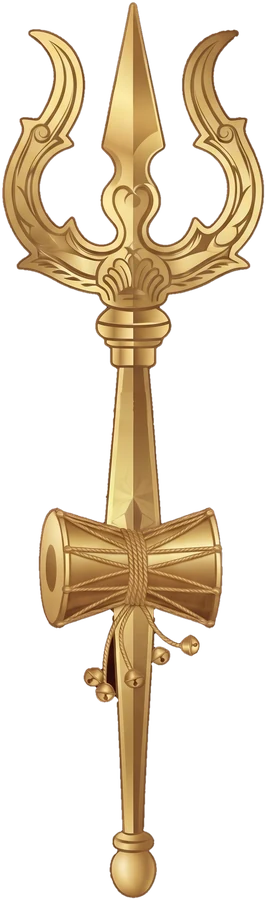
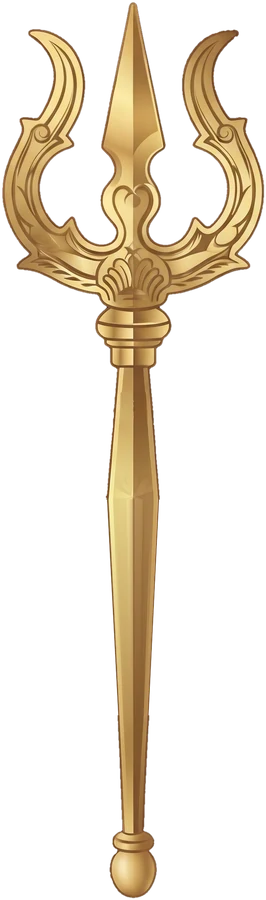
Jyotirlinga Compass: separate damaru hub, swinging trishul, damaru sound
- Damaru cut out of the trishul artwork as its own picture (drum, rope knot,
  three cords, five bells). It sits upright at the dial's centre while the
  trishul turns beneath it. The shaft it covered was rebuilt from the clean
  metal above and below, stretched to the shaft's taper row by row.
- Trishul now swings to each new direction (9% of the remaining angle per
  frame) instead of jumping.
- Damaru sound synthesised with Web Audio, no recording: two skins at 300
  and 345 Hz struck in turn, a shell mode at 1.59x, a bead click, small
  bells. Plays while the trishul has more than 12 degrees to turn, roll
  length scales with the swing, then rests 0.9 s. The damaru twists while
  it plays. Tap the damaru to hear it; sound switch beside the readouts.
- Respects prefers-reduced-motion. Credits updated.

Claude-Session: https://claude.ai/code/session_01Hxbxsmdo45GaN6PaciHAM9

Changed region(s): [[0.1203, 0.56, 0.8421, 0.8089]]

diff --git a/demos/jyotirlinga-compass/index.html b/demos/jyotirlinga-compass/index.html
@@ -87,6 +87,8 @@
   .chip{padding:6px 12px;border-radius:999px;font-size:12.5px;color:var(--text);
     background:rgba(5,6,10,.7);border:1px solid rgba(155,107,255,.4)}
   .chip b{color:var(--blue);font-weight:500}
+  button.chip{font:inherit;font-size:12.5px;cursor:pointer}
+  button.chip[aria-pressed="false"] b{color:var(--muted)}
   .flat{margin:14px 0 0;padding:10px 12px;border-radius:12px;font-size:12.5px;line-height:1.5;
     border:1px solid rgba(76,201,255,.4);background:rgba(76,201,255,.06);color:#cfeeff}
 
@@ -159,10 +161,20 @@
              Measured on the 635x2149 source: shaft axis x=317.5, blade tip y=6,
              knob end y=2143, so the midpoint is y=1074.5. Scale 0.08202 makes it
              176 units long: tip 88 units above the centre, knob the same below.
+             The damaru that was tied to the shaft is now a separate picture (below);
+             the shaft behind it was rebuilt from the clean metal above and below.
              Drawn pointing straight up; rotate() does the aiming, to (bearing - heading). -->
         <g id="needle">
           <image href="img/trishul.webp" x="123.96" y="61.87" width="52.08" height="176.26"
                  preserveAspectRatio="none" filter="url(#f-glow)" style="pointer-events:none"/>
+        </g>
+        <!-- The damaru: its own picture, cut from the same artwork. It stays upright at
+             the dial's centre while the trishul turns beneath it, like a hub. The middle
+             of the drum (source 223.5,167.0 in the 448x504 cut-out) sits on (150,150),
+             at the same scale as the trishul. Tap it to hear it. -->
+        <g id="damaru" role="button" tabindex="0" aria-label="Play the damaru" style="cursor:pointer">
+          <image href="img/damaru.webp" x="131.67" y="136.30" width="36.75" height="41.34"
+                 preserveAspectRatio="none" filter="url(#f-glow)"/>
         </g>
       </svg>
     </div>
@@ -170,8 +182,10 @@
     <div class="readout">
       <span class="chip">Bearing <b id="r-bear">—</b></span>
       <span class="chip">Compass <b id="r-head">—</b></span>
+      <button type="button" class="chip snd" id="b-snd" aria-pressed="true">Damaru sound <b>On</b></button>
     </div>
     <p class="flat" id="flatnote" hidden>No compass on this device, so the dial is held with north upwards and the arrow shows the bearing from true north. On a phone the arrow turns as you turn.</p>
+    <p class="note"><b>The damaru (डमरू)</b> sounds while the trishul swings to a new direction, and you can tap it to hear it. The sound is made by the page itself, not a recording: two drum skins tuned a little apart, struck in turn by the beads on its cords, with the small bells jingling. Switch it off with the button above.</p>
     <p class="note"><b>दस दिशाएँ, the ten directions.</b> The dial shows eight: the four main ones and the four corners (कोण): ईशान, आग्नेय, नैऋत्य and वायव्य. Tradition counts two more, ऊर्ध्व (upward) and अधो (downward), which a flat compass cannot show.</p>
     <p class="note"><b>If the arrow wanders:</b> wave the phone in a figure 8 a few times to calibrate it. Indoors, in a lift, in a car, or near a fridge, speakers, a laptop or steel furniture, the magnetic reading drifts and can be wrong by a long way. Step outside, away from metal, for a steadier reading.</p>
   </div>
@@ -198,6 +212,8 @@
       <tr><td>Mamleshwar as a second linga of the kshetra</td><td>Editorial reference</td><td><a href="https://www.gajananmaharajsanstan.in/blog/mamleshwar-vs-omkareshwar-jyotirlinga">Gajanan Maharaj Sansthan</a></td><td>26 Nov 2026</td><td>No coordinate used; no sourced point for Mamleshwar yet</td></tr>
       <tr><td>Isometric temple pictures with Hindi and English names (all 12)</td><td>Generated by Mohit with Google Gemini; carries Google's invisible SynthID mark</td><td>—</td><td>27 Nov 2026</td><td>Background removed and Gemini's visible sparkle cropped out. Bhimashankar label corrected from भीमार्शंकर to भीमाशंकर. Check Gemini's current terms allow this use before go-live.</td></tr>
       <tr><td>Trishul and damaru needle</td><td>Generated by Mohit with Google Gemini; carries Google's invisible SynthID mark</td><td>—</td><td>27 Nov 2026</td><td>Background and compass rose removed; the "N" on the shaft painted out, since the needle points to a shrine, not north. Same terms check as above.</td></tr>
+      <tr><td>Damaru picture</td><td>Generated by Mohit with Google Gemini; carries Google's invisible SynthID mark</td><td>—</td><td>27 Nov 2026</td><td>Cut out of the trishul artwork as its own piece; cords and bells kept. Same terms check as above.</td></tr>
+      <tr><td>Damaru sound</td><td>Original, synthesised in the browser (Web Audio API)</td><td>—</td><td>27 Nov 2026</td><td>None. No recording used.</td></tr>
       <tr><td>Compass dial</td><td>Original, drawn in code for this page</td><td>—</td><td>27 Nov 2026</td><td>None</td></tr>
       <tr><td>Geist, Tiro Devanagari Hindi</td><td>SIL Open Font License 1.1</td><td><a href="https://fonts.google.com/">Google Fonts</a></td><td>26 Nov 2026</td><td>None</td></tr>
     </table>
@@ -214,7 +230,7 @@
    Jyotirlinga Compass — Level A (web compass, no AR)
    One file, no build step, no libraries.
    ===================================================================== */
-const BUILD = 'Jyotirlinga Compass · Level A · 27 Nov 2026 · r2';
+const BUILD = 'Jyotirlinga Compass · Level A · 27 Nov 2026 · r3';
 const $ = id => document.getElementById(id);
 $('stamp').textContent = BUILD;
 
@@ -424,18 +440,169 @@ function draw(){
   if (St.heading == null){
     // No compass: hold the dial north-up and point the needle at the bearing
     $('rose').setAttribute('transform', 'rotate(0 150 150)');
-    $('needle').setAttribute('transform', `rotate(${bear.toFixed(1)} 150 150)`);
+    setNeedle(bear);
     $('r-head').textContent = 'not available';
     $('flatnote').hidden = false;
     placeLabels(0);
   } else {
     $('rose').setAttribute('transform', `rotate(${(-St.heading).toFixed(1)} 150 150)`);
-    $('needle').setAttribute('transform', `rotate(${norm(bear - St.heading).toFixed(1)} 150 150)`);
+    setNeedle(bear - St.heading);
     $('r-head').textContent = `${Math.round(St.heading)}° ${compassWord(St.heading)}`;
     $('flatnote').hidden = true;
     placeLabels(St.heading);
   }
 }
+
+
+/* ---------------------------------------------------------------------
+   PART 6b — The swing, and the damaru
+   The trishul does not jump to a new angle; it swings there. Each screen
+   refresh (about 60 a second) it turns 9% of the way that is left.
+   Example: 90 degrees to go -> turns 8.1, then 7.4, then 6.7 ... and has
+   settled in under a second, slowing as it arrives, like a real needle.
+   While it still has more than 12 degrees to go, the damaru plays.
+   --------------------------------------------------------------------- */
+const REDUCE = matchMedia('(prefers-reduced-motion: reduce)').matches;
+const Needle = { shown: 0, target: 0 };   // starts pointing up, so the first fix swings into place
+let needleRaf = 0;
+function setNeedle(a){
+  Needle.target = norm(a);
+  if (REDUCE){ Needle.shown = Needle.target; paintNeedle(); return; }
+  if (!needleRaf) needleRaf = requestAnimationFrame(stepNeedle);
+}
+function stepNeedle(){
+  needleRaf = 0;
+  // shortest way round: from 350 to 10 is +20, not -340
+  const diff = ((Needle.target - Needle.shown + 540) % 360) - 180;
+  if (Math.abs(diff) > 12) Damaru.swing(Math.abs(diff));
+  Needle.shown = norm(Needle.shown + diff * 0.09);
+  paintNeedle();
+  if (Math.abs(diff) > 0.15) needleRaf = requestAnimationFrame(stepNeedle);
+}
+function paintNeedle(){
+  $('needle').setAttribute('transform', `rotate(${Needle.shown.toFixed(2)} 150 150)`);
+}
+
+/* The damaru sound, made in the browser with the Web Audio API. No recording.
+   How a damaru works: twisting the wrist swings two knotted cords, and their
+   beads strike the two skins in turn: "dug-dug-dug". So each roll here is a
+   run of hits that alternate between two heads tuned a little apart.
+   One hit = three short sounds layered together:
+     1. the skin: a sine wave that starts a little sharp and settles, as a
+        struck membrane does (300 Hz head and 345 Hz head);
+     2. the shell: a second, higher mode (1.59 x the skin) that dies quickly;
+     3. the bead: a tiny burst of noise, filtered to a click.
+   Browsers only allow sound after a tap, so the audio starts on your first tap. */
+const Damaru = {
+  on: true, ctx: null, out: null, noise: null, busyUntil: 0, restUntil: 0,
+  unlock(){
+    if (!this.ctx){
+      const AC = window.AudioContext || window.webkitAudioContext;
+      if (!AC) return;
+      this.ctx = new AC();
+      const comp = this.ctx.createDynamicsCompressor();
+      this.out = this.ctx.createGain(); this.out.gain.value = 0.55;
+      this.out.connect(comp).connect(this.ctx.destination);
+      const n = this.ctx.createBuffer(1, this.ctx.sampleRate * 0.05, this.ctx.sampleRate);
+      const d = n.getChannelData(0); for (let i = 0; i < d.length; i++) d[i] = Math.random() * 2 - 1;
+      this.noise = n;
+    }
+    if (this.ctx.state === 'suspended') this.ctx.resume();
+  },
+  hit(t, f, g){
+    const c = this.ctx;
+    const skin = c.createOscillator(), gs = c.createGain();
+    skin.frequency.setValueAtTime(f * 1.25, t);
+    skin.frequency.exponentialRampToValueAtTime(f, t + 0.025);
+    skin.frequency.exponentialRampToValueAtTime(f * 0.9, t + 0.15);
+    gs.gain.setValueAtTime(0.0001, t);
+    gs.gain.exponentialRampToValueAtTime(g, t + 0.003);
+    gs.gain.exponentialRampToValueAtTime(0.0001, t + 0.17);
+    skin.connect(gs).connect(this.out); skin.start(t); skin.stop(t + 0.19);
+    const shell = c.createOscillator(), gh = c.createGain();
+    shell.frequency.setValueAtTime(f * 1.59, t);
+    gh.gain.setValueAtTime(0.0001, t);
+    gh.gain.exponentialRampToValueAtTime(g * 0.35, t + 0.002);
+    gh.gain.exponentialRampToValueAtTime(0.0001, t + 0.06);
+    shell.connect(gh).connect(this.out); shell.start(t); shell.stop(t + 0.08);
+    const bead = c.createBufferSource(), bp = c.createBiquadFilter(), gb = c.createGain();
+    bead.buffer = this.noise; bp.type = 'bandpass'; bp.frequency.value = 2200; bp.Q.value = 1.2;
+    gb.gain.setValueAtTime(g * 0.6, t); gb.gain.exponentialRampToValueAtTime(0.0001, t + 0.014);
+    bead.connect(bp).connect(gb).connect(this.out); bead.start(t); bead.stop(t + 0.03);
+  },
+  bell(t){
+    const c = this.ctx;
+    [1, 1.47].forEach(m => {
+      const o = c.createOscillator(), g = c.createGain();
+      o.frequency.value = (3800 + Math.random() * 1600) * m;
+      g.gain.setValueAtTime(0.0001, t);
+      g.gain.exponentialRampToValueAtTime(0.022, t + 0.002);
+      g.gain.exponentialRampToValueAtTime(0.0001, t + 0.26);
+      o.connect(g).connect(this.out); o.start(t); o.stop(t + 0.28);
+    });
+  },
+  /* One roll: speeds up, holds, slows down. dur in seconds.
+     Example, a 1 s roll: gaps go from about 1/9 s to 1/15 s and back,
+     so about 13 hits, alternating heads, a few with a bell. */
+  roll(dur){
+    if (!this.on || !this.ctx) return;
+    let t = this.ctx.currentTime + 0.02, end = t + dur, k = 0;
+    while (t < end){
+      const p = 1 - (end - t) / dur;                         // 0 at the start, 1 at the end
+      const swell = Math.pow(Math.sin(Math.PI * Math.min(Math.max(p, 0.04), 0.96)), 0.6);
+      const head = k % 2 === 0 ? 300 : 345;
+      this.hit(t, head, 0.5 * swell * (k % 2 ? 0.85 : 1));
+      if (Math.random() < 0.45) this.bell(t + 0.01);
+      t += 1 / (9 + 6 * Math.sin(Math.PI * p)) + (Math.random() - 0.5) * 0.012;
+      k++;
+    }
+  },
+  /* Called while the trishul swings: a bigger swing gets a longer roll,
+     then the damaru rests for a moment so it never rattles non-stop. */
+  swing(deg){
+    const now = performance.now();
+    if (now < this.busyUntil || now < this.restUntil) return;
+    this.play(Math.min(1.6, 0.45 + deg / 180));
+  },
+  play(dur){
+    const now = performance.now();
+    this.busyUntil = now + dur * 1000;
+    this.restUntil = this.busyUntil + 900;
+    this.roll(dur);
+    shakeDamaru(dur);
+  }
+};
+
+/* The damaru twists back and forth while it plays: about 7 twists a second,
+   up to 11 degrees each way, easing in and out. */
+function shakeDamaru(dur){
+  if (REDUCE) return;
+  const g = $('damaru'), t0 = performance.now();
+  (function frame(){
+    const p = (performance.now() - t0) / (dur * 1000);
+    if (p >= 1){ g.setAttribute('transform', ''); return; }
+    const a = 11 * Math.sin(2 * Math.PI * 7 * p * dur) * Math.sin(Math.PI * p);
+    g.setAttribute('transform', `rotate(${a.toFixed(2)} 150 150)`);
+    requestAnimationFrame(frame);
+  })();
+}
+
+/* Sound switch, remembered on this phone only (and only if the browser allows) */
+try { if (localStorage.getItem('jc-sound') === 'off') Damaru.on = false; } catch (e) {}
+function showSound(){
+  $('b-snd').setAttribute('aria-pressed', Damaru.on);
+  $('b-snd').querySelector('b').textContent = Damaru.on ? 'On' : 'Off';
+}
+showSound();
+$('b-snd').addEventListener('click', () => {
+  Damaru.on = !Damaru.on; showSound();
+  try { localStorage.setItem('jc-sound', Damaru.on ? 'on' : 'off'); } catch (e) {}
+});
+/* First tap anywhere unlocks audio; tapping the damaru plays it */
+document.addEventListener('pointerdown', () => Damaru.unlock(), { passive: true });
+function tapDamaru(){ Damaru.unlock(); Damaru.play(0.9); }
+$('damaru').addEventListener('click', tapDamaru);
+$('damaru').addEventListener('keydown', e => { if (e.key === 'Enter' || e.key === ' '){ e.preventDefault(); tapDamaru(); } });
 
 /* ---------------------------------------------------------------------
    PART 7 — Location, from the browser only. Never stored, never sent.
